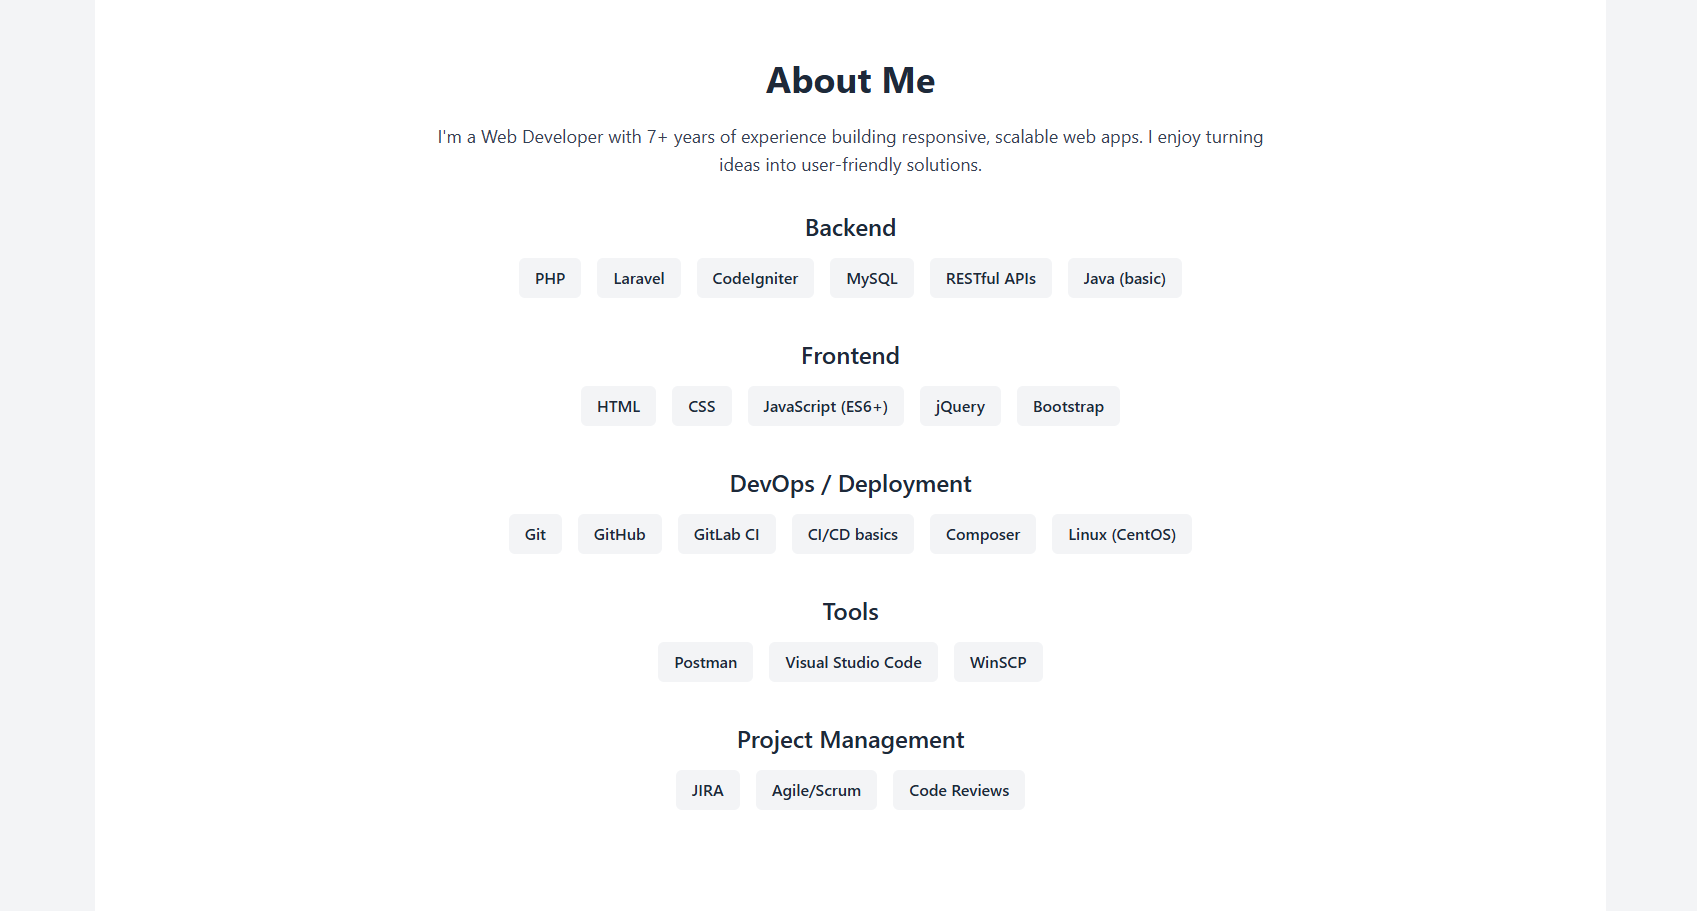
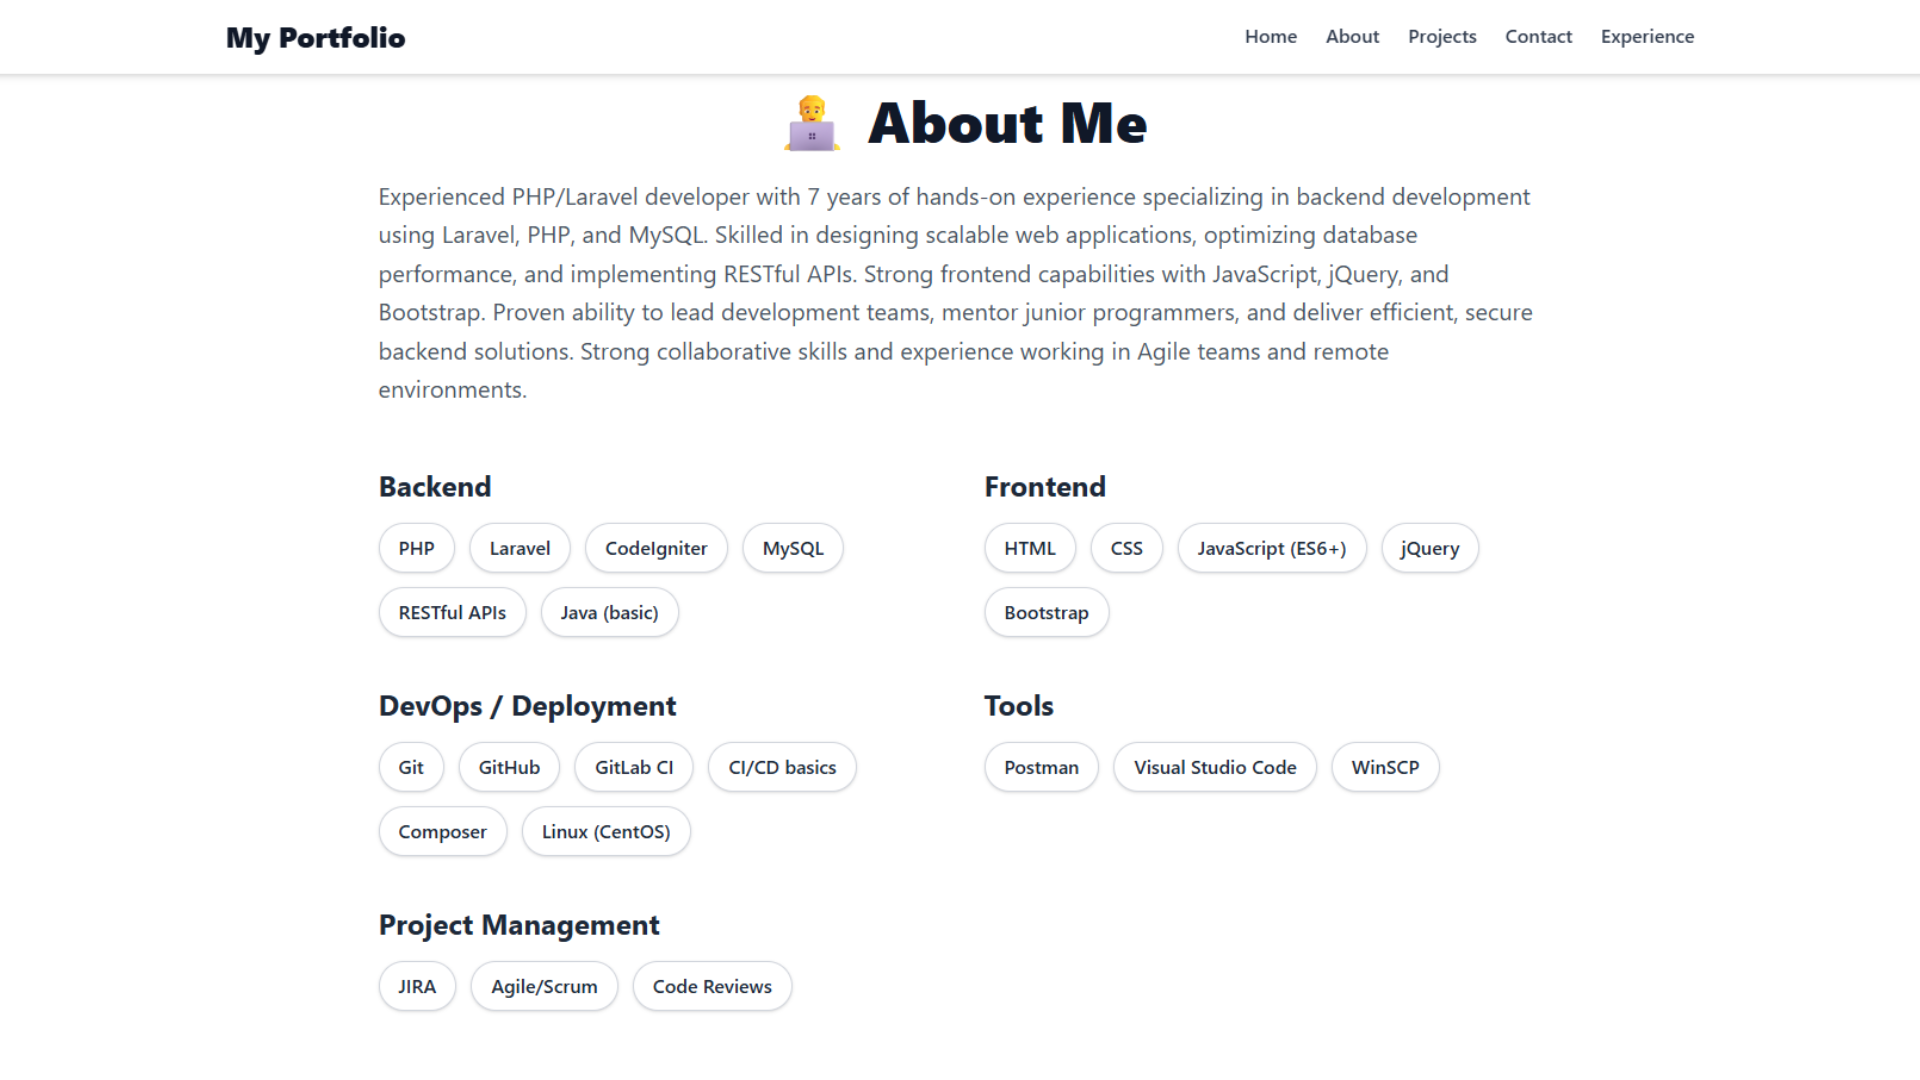
project section

diff --git a/src/pages/Projects.jsx b/src/pages/Projects.jsx
@@ -8,34 +8,34 @@ const projects = [
     description: "A responsive personal portfolio showcasing my projects, built with React and Tailwind CSS.",
     thumbnail: "/images/portfolio.png", // Replace with real image URL
     images: ["/images/projects/personal-portfolio/hero.png", "/images/projects/personal-portfolio/about-me.png", "/images/projects/personal-portfolio/projects.png", "/images/projects/personal-portfolio/contact-me.png"], // Replace with real image URL
-    stacks: ["React", "Tailwind CSS", "JavaScript"],
+    stacks: ["React", "Tailwind CSS", "JavaScript", "GitHub"],
   },
   {
-    name: "Academic Info System (Laravel)",
+    name: "Academic Information Management System (AimsV2)",
     description: "Laravel-based academic system for managing students, enrollment, and grades. (Screenshots only - employer project)",
     //thumbnail: "https://via.placeholder.com/300x200", // Replace with screenshot if available
-    images: ["/images/projects/aims-laravel/hero.png", "/images/projects/aims-laravel/about-me.png", "/images/projects/aims-laravel/projects.png", "/images/projects/aims-laravel/contact-me.png"],
-    stacks: ["Laravel", "PHP", "MySQL", "JavaScript", "jQuery","Bootstrap", "Git"],
+    images: ["/images/projects/aims-laravel/dashboard-two.png", "/images/projects/aims-laravel/gradingsheet.png", "/images/projects/aims-laravel/grading-sheet-inside.png", "/images/projects/aims-laravel/application-data.png", "/images/projects/aims-laravel/dashboard-one.png"],
+    stacks: ["Laravel", "PHP", "MySQL", "JavaScript", "jQuery","Bootstrap", "GitLab"],
   },
   {
-    name: "Academic Info System (PHP)",
+    name: "Academic Information Management System (AimsV1)",
     description: "Original PHP version of academic management system with core features. (Screenshots only - employer project)",
     //thumbnail: "https://via.placeholder.com/300x200", // Replace with screenshot if available
-    images: ["/images/projects/aims-php/hero.png", "/images/projects/aims-php/about-me.png", "/images/projects/aims-php/projects.png", "/images/projects/aims-php/contact-me.png"],
-    stacks: ["PHP", "MySQL", "JavaScript", "HTML", "CSS"],
+    images: ["/images/projects/aims-php/applicant-list.png", "/images/projects/aims-php/course-file.png"],
+    stacks: ["PHP", "MySQL", "JavaScript", "jQuery", "HTML", "CSS"],
   },
   {
     name: "Barangay Management System (Backend)",
     description: "Backend system with database logic for managing residents and barangay certifications.",
     thumbnail: "/images/barangay-thumbnail.png",// Optional: replace with a backend architecture image or placeholder
-    stacks: ["PHP", "Laravel", "MySQL", "GIT", "RESTful APIs"],
+    stacks: ["PHP", "Laravel", "MySQL", "GitHub", "RESTful APIs"],
     github: "https://github.com/paopaomanuzon24/barangay"
   },
   {
     name: "CLI Calculator with Unit Testing",
     description: "A command-line calculator with PHPUnit tests built during a technical assessment.",
   //thumbnail: "https://via.placeholder.com/300x200", // Optional: Use a terminal-themed placeholder or GitHub logo
-    stacks: ["PHP", "PHPUnit"],
+    stacks: ["PHP", "PHPUnit", "GitHub"],
     github: "https://github.com/paopaomanuzon24/cli-calculator"
   },
 
@@ -43,7 +43,7 @@ const projects = [
 
 const Projects = () => {
   return (
-    <section id="projects" className="py-16 bg-white">
+    <section id="projects" className="py-20 bg-white">
       <div className="max-w-7xl mx-auto px-6 text-center">
         <h2 className="text-3xl md:text-4xl font-semibold mb-6">🚀 Projects</h2>
 
@@ -52,7 +52,7 @@ const Projects = () => {
           {projects.map((project, index) => (
             <div
               key={index}
-              className="bg-white shadow-lg rounded-lg overflow-hidden transform transition-all duration-300 hover:scale-105 hover:shadow-xl"
+              className="bg-white shadow-lg rounded-lg overflow-hidden transform transition-all duration-300 hover:scale-105 hover:shadow-xl border border-gray-300"
             >
               
 
@@ -71,8 +71,8 @@ const Projects = () => {
                   ))}
                 </Carousel>
               ) : (
-                <div className="w-full h-48 bg-gray-100 flex items-center justify-center text-gray-500 text-2xl">
-                  Backend Only
+                <div className="w-full h-48 bg-gray-100 flex items-center justify-center text-gray-500 text-4xl">
+                  No Thumbnail
                 </div>
               )
             }

diff --git a/src/components/Experience.jsx b/src/components/Experience.jsx
@@ -1,0 +1,122 @@
+import React from "react";
+
+const experiences = [
+  {
+    company: "Pinnacle Technologies, Inc.",
+    location: "Caloocan City, Philippines",
+    roles: [
+      {
+        title: "Senior Web Developer",
+        date: "July 2018 – June 2024",
+        bullets: [
+          "Led backend development using Laravel and MySQL",
+          "Implemented RESTful APIs and integrated third-party services",
+          "Mentored junior developers and managed code reviews",
+          "Deployed CI/CD pipelines and managed staging environments",
+        ],
+      },
+      {
+        title: "Junior Web Developer",
+        date: "2016 – June 2018",
+        bullets: [
+          "Built and maintained academic and enrollment systems",
+          "Developed web apps using PHP, MySQL, jQuery, and Bootstrap",
+          "Collaborated with senior devs on project delivery and testing",
+        ],
+      },
+    ],
+  },
+  {
+    company: "Freelance",
+    location: "Remote",
+    roles: [
+      {
+        title: "Freelance Full-Stack Developer",
+        date: "Nov 2021 – Mar 2022",
+        bullets: [
+          "Developed custom websites and admin dashboards for local businesses",
+          "Handled full project lifecycle: client communication, dev, deployment",
+          "Used PHP, Laravel, JavaScript, and MySQL for backend and frontend",
+        ],
+      },
+    ],
+  },
+  ,
+  {
+    company: "Sinagtek",
+    location: "Remote",
+    roles: [
+      {
+        title: "Remote Web Developer",
+        date: "Jan 2020 – Apr 2020",
+        bullets: [
+          "Developed custom websites and admin dashboards for local businesses",
+          "Handled full project lifecycle: client communication, dev, deployment",
+          "Used PHP, Laravel, JavaScript, and MySQL for backend and frontend",
+        ],
+      },
+    ],
+  },
+  ,
+  {
+    company: "Pointwest",
+    location: "Quezon City, Philippines",
+    roles: [
+      {
+        title: "Java Trainee",
+        date: "Mar 2016 – May 2016",
+        bullets: [
+          "Developed custom websites and admin dashboards for local businesses",
+          "Handled full project lifecycle: client communication, dev, deployment",
+          "Used PHP, Laravel, JavaScript, and MySQL for backend and frontend",
+        ],
+      },
+    ],
+  },
+];
+
+const Experience = () => {
+  return (
+    <section id="experience" className="py-20 bg-gradient-to-b from-gray-50 to-white">
+      <div className="max-w-5xl mx-auto px-6">
+        <h2 className="text-4xl md:text-5xl font-extrabold text-center text-gray-900 mb-12">
+          🧑💼 Experience
+        </h2>
+
+        <div className="relative border-l-4 border-gray-300 pl-8">
+         {experiences.map((exp, i) => (
+  <div key={i} className="mb-12 relative">
+    {/* Timeline Dot */}
+    <span className="absolute -left-4 top-2 w-4 h-4 bg-gray-800 rounded-full border-4 border-white shadow-md"></span>
+
+    <h3 className="text-xl font-bold text-gray-800">{exp.company}</h3>
+    <p className="text-sm text-gray-600 mb-4">{exp.location}</p>
+
+    {exp.roles.map((role, j) => (
+      <div key={j} className="mb-6">
+        <div className="flex flex-col md:flex-row md:items-center md:justify-between">
+          <h4 className="text-lg font-semibold text-gray-700">{role.title}</h4>
+          <span className="text-sm text-gray-600">{role.date}</span>
+        </div>
+        <ul className="list-disc list-inside mt-2 text-gray-600 space-y-1">
+          {role.bullets.map((point, idx) => (
+            <li key={idx}>{point}</li>
+          ))}
+        </ul>
+      </div>
+    ))}
+
+    {/* 👇 Add separator after each company except the last */}
+    {i !== experiences.length - 1 && (
+      <div className="border-t border-gray-300 mt-10 mb-6 w-full"></div>
+    )}
+  </div>
+))}
+          
+        </div>
+      </div>
+    </section>
+  );
+};
+
+export default Experience;

diff --git a/src/pages/About.jsx b/src/pages/About.jsx
@@ -2,7 +2,7 @@ import React from "react";
 
 const skills = {
   "Backend": ["PHP", "Laravel", "CodeIgniter", "MySQL", "RESTful APIs", "Java (basic)"],
-  "Frontend": ["HTML", "CSS", "JavaScript (ES6+)", "jQuery", "Bootstrap"],
+  "Frontend": ["HTML", "CSS", "JavaScript (ES6+)", "jQuery", "Bootstrap", "React", "Tailwind CSS"],
   "DevOps / Deployment": ["Git", "GitHub", "GitLab CI", "CI/CD basics", "Composer", "Linux (CentOS)"],
   "Tools": ["Postman", "Visual Studio Code", "WinSCP"],
   "Project Management": ["JIRA", "Agile/Scrum", "Code Reviews"]
@@ -10,17 +10,14 @@ const skills = {
 
 const About = () => {
   return (
-    <section id="about" className="py-20 bg-gradient-to-b from-white to-gray-100">
+    <section id="about" className="py-20 bg-white">
       <div className="max-w-5xl mx-auto px-6 text-center">
         <h2 className="text-4xl md:text-5xl font-extrabold text-gray-900 mb-6">
           👨💻 About Me
         </h2>
 
-        <p className="text-lg md:text-xl text-gray-600 mb-12 leading-relaxed">
-          I'm a dedicated web developer with over 7 years of experience in building clean,
-          scalable, and efficient web applications. I specialize in PHP and Laravel, with a
-          strong focus on backend logic and system design. I love turning business ideas into
-          functional, user-friendly software.
+        <p className="text-lg md:text-xl text-gray-600 mb-12 leading-relaxed text-left">
+          Experienced PHP/Laravel developer with 7 years of hands-on experience specializing in backend development using Laravel, PHP, and MySQL. Skilled in designing scalable web applications, optimizing database performance, and implementing RESTful APIs. Strong frontend capabilities with JavaScript, jQuery, and Bootstrap. Proven ability to lead development teams, mentor junior programmers, and deliver efficient, secure backend solutions. Strong collaborative skills and experience working in Agile teams and remote environments.
         </p>
 
         <div className="grid grid-cols-1 md:grid-cols-2 gap-10 text-left">

diff --git a/src/pages/Home.jsx b/src/pages/Home.jsx
@@ -4,7 +4,7 @@ const Home = () => {
   return (
     <section
       id="home"
-      className="h-screen bg-gradient-to-br from-gray-100 to-white flex items-center justify-center"
+      className="h-[90vh] py-20 bg-white flex items-center justify-center"
     >
       <div className="max-w-4xl mx-auto px-6 text-center">
         <h1 className="text-4xl md:text-5xl font-extrabold text-gray-900 mb-4">
@@ -12,9 +12,9 @@ const Home = () => {
         </h1>
 
         <p className="text-lg md:text-xl text-gray-600 mb-6 leading-relaxed">
-          A passionate web developer with 7+ years of experience building modern,
-          scalable applications using PHP, Laravel, JavaScript, and React.
-        </p>
+  With 7 years of experience in PHP and Laravel, I specialize in building robust backend systems, designing APIs, and optimizing databases. I also bring solid frontend skills and thrive in collaborative Agile teams.
+</p>
+
 
         <a
           href="#projects"

diff --git a/src/pages/Contact.jsx b/src/pages/Contact.jsx
@@ -14,7 +14,7 @@ const Contact = () => {
   };
 
   return (
-    <section id="contact" className="py-20 bg-gradient-to-b from-white to-gray-50">
+    <section id="contact" className="py-20 bg-white rounded-md">
       <div className="max-w-3xl mx-auto px-6 text-center">
         <h2 className="text-4xl font-extrabold text-gray-900 mb-4">📩 Contact Me</h2>
         <p className="text-lg md:text-xl text-gray-600 mb-10">
@@ -23,7 +23,7 @@ const Contact = () => {
 
         <form
           onSubmit={handleSubmit}
-          className="space-y-6 text-left bg-white p-8 rounded-2xl shadow-xl"
+          className="space-y-6 text-left bg-white p-8 rounded-2xl shadow-xl border border-gray-400"
         >
           <div>
             <label className="block text-gray-700 font-medium mb-2">Your Name</label>

diff --git a/src/components/Header.jsx b/src/components/Header.jsx
@@ -25,6 +25,14 @@ const Header = () => {
           </li>
           <li>
             <a
+              href="#experience"
+              className="text-gray-700 hover:text-blue-600 transition-colors duration-200"
+            >
+              Experience
+            </a>
+          </li>
+          <li>
+            <a
               href="#projects"
               className="text-gray-700 hover:text-blue-600 transition-colors duration-200"
             >
@@ -39,6 +47,8 @@ const Header = () => {
               Contact
             </a>
           </li>
+
+          
         </ul> 
       </nav>
     </header>

diff --git a/src/App.jsx b/src/App.jsx
@@ -5,6 +5,7 @@ import Home from "./pages/Home";
 import About from "./pages/About";
 import Projects from "./pages/Projects";
 import Contact from "./pages/Contact";
+import Experience from './components/Experience';
 
 function App() {
   return (
@@ -13,6 +14,7 @@ function App() {
       <main className="px-4 md:px-12 lg:px-24 py-12 space-y-24">
         <Home />
         <About />
+        <Experience />
         <Projects />
         <Contact />
       </main>
